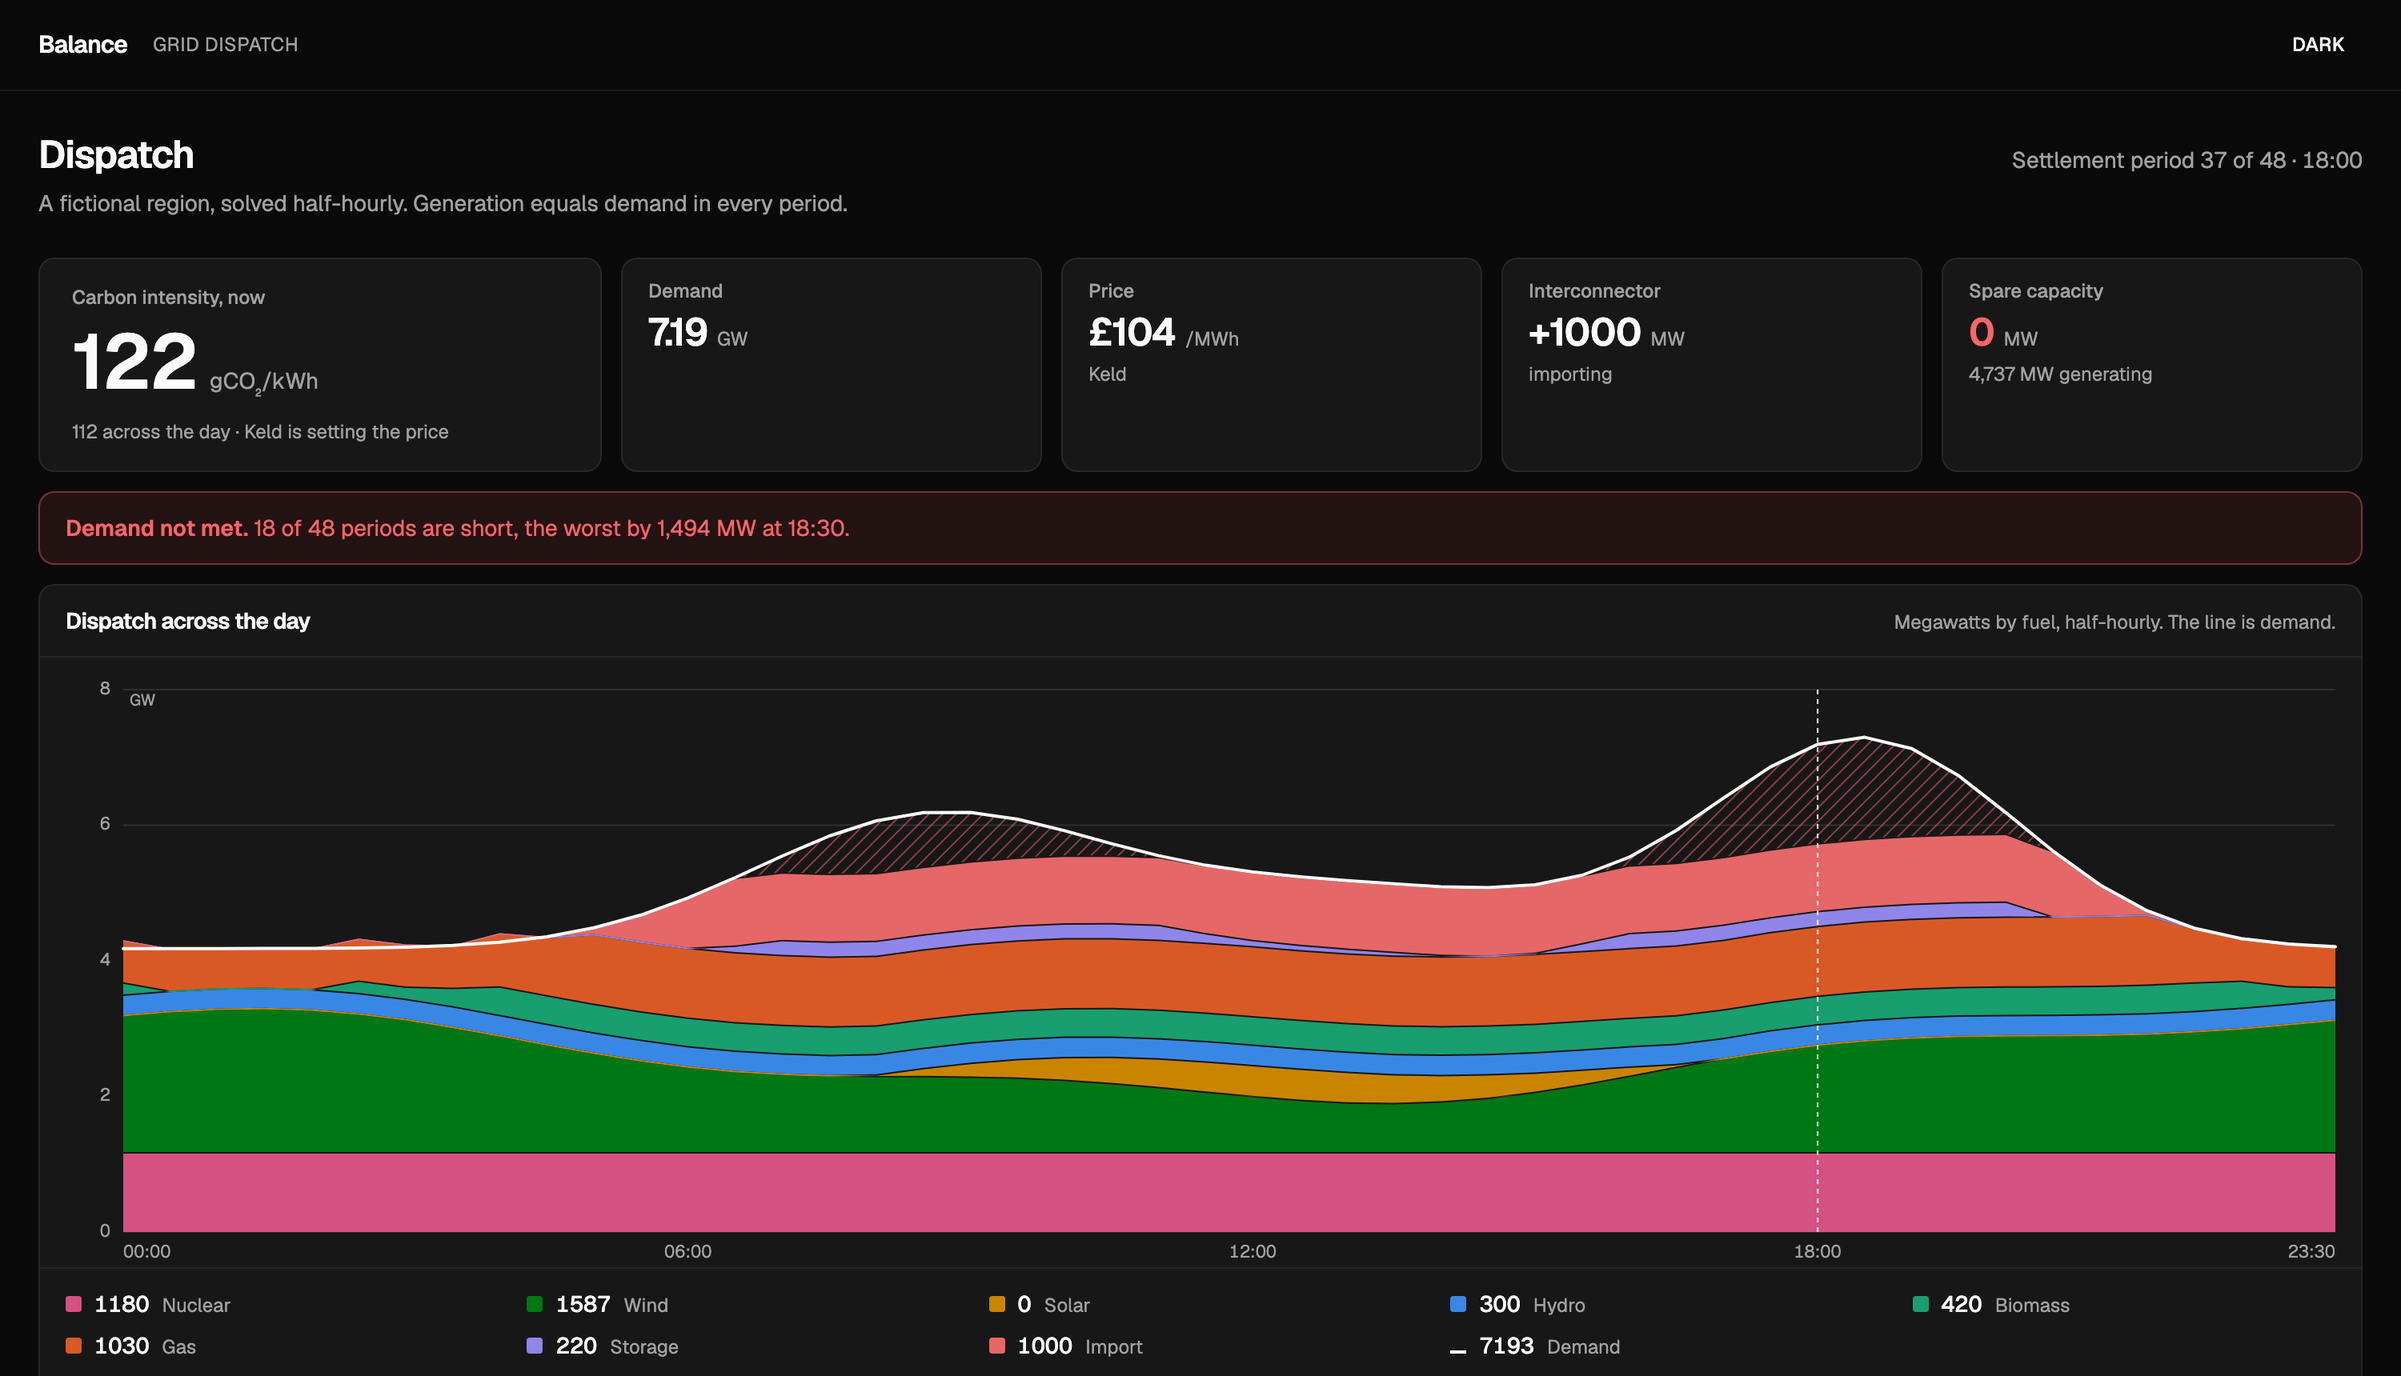
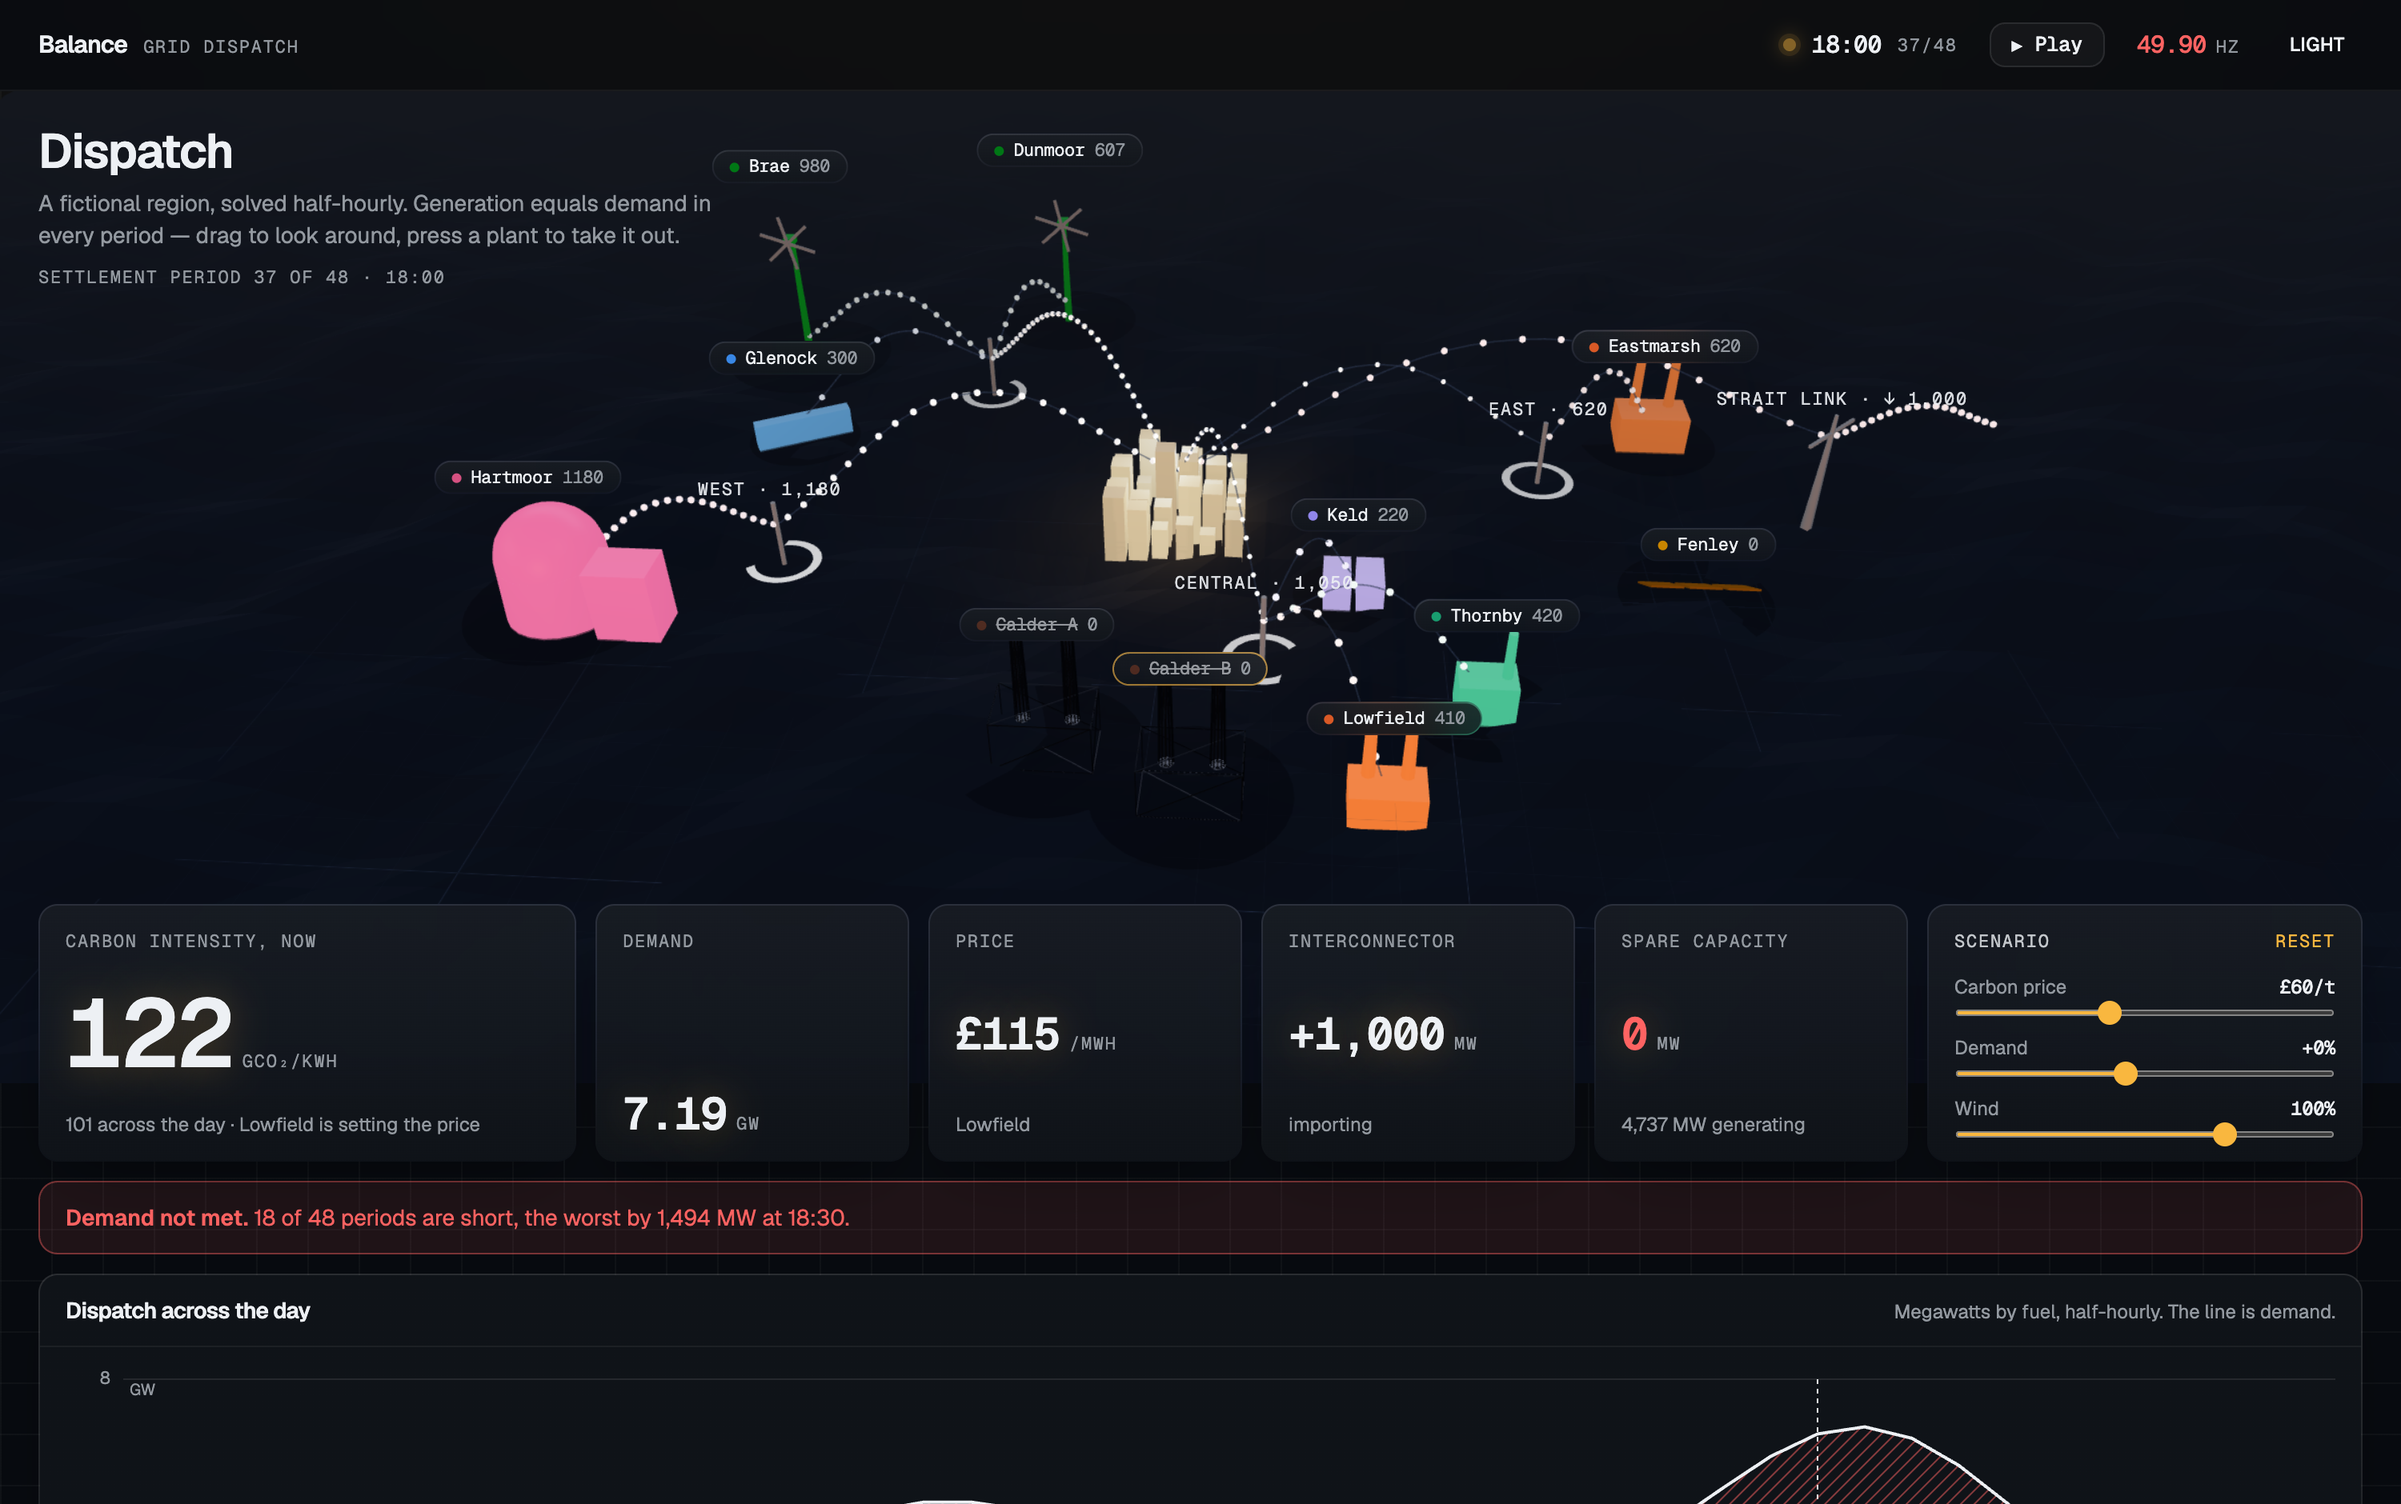
docs: the README and screenshots for the control room

diff --git a/README.md b/README.md
@@ -1,24 +1,24 @@
 # Balance
 
-A grid control room for a region that does not exist, solved half-hourly, where every number on the screen is the output of one model.
+A control room for a region that does not exist, solved half-hourly, where every number on the screen — and every particle moving across the map — is the output of one model.
 
-Forty-eight settlement periods of economic dispatch across eleven generating units, four nodes and an interconnector. Take a station offline and the whole day re-solves: the merit order shifts, a dearer unit is called, the price moves, the carbon intensity moves with it, and if the system can no longer meet demand it says so.
+Eleven generating units, four nodes, an interconnector and a city, dispatched across forty-eight settlement periods. Press **Play** and the day runs: the sun crosses the region, the solar farm wakes at nine, the city lights come up at dusk, and the instruments roll with the clock. Press a plant to take it out and the whole day re-solves — a dearer unit is called, the price moves, the carbon intensity moves with it, the particles feeding the city from the east thicken, and if the system can no longer meet demand the frequency droops and it says so.
 
 **Live:** <https://balance-dispatch.pages.dev>
 
-![The dashboard at the evening peak: carbon intensity, the day stacked by fuel, and the demand line over the top](docs/dashboard.png)
+![The control room at the evening peak: the region in three dimensions, power moving along the lines to the city, the instruments laid over its foot](docs/dashboard.png)
 
 ---
 
 ## The one rule
 
-Nothing is typed into a component. Every figure — the tiles, the stacked day, the supply curve, the diagram, the table — is derived from [`src/lib/grid/`](src/lib/grid), and the arithmetic has one invariant:
+Nothing is typed into a component. Every figure — the tiles, the masthead clock and frequency, the stacked day, the supply curve, the diagram, the table, and the width, count and speed of every particle in the scene — is derived from [`src/lib/grid/`](src/lib/grid), and the arithmetic has one invariant:
 
 ```
 generation + imports + unserved === demand + exports
 ```
 
-to within 0.1 MW, in all forty-eight periods, and still true with the two largest units out. That is the first test in [`dispatch.test.ts`](src/lib/grid/dispatch.test.ts), and it is the reason the rest of the dashboard can be trusted to agree with itself.
+to within 0.1 MW, in all forty-eight periods, under every lever, and still true with the two largest units out. That is the first test in [`dispatch.test.ts`](src/lib/grid/dispatch.test.ts), and it is the reason the rest of the room can be trusted to agree with itself.
 
 ## What the model actually does
 
@@ -31,35 +31,45 @@ Not a stacked chart with plausible numbers under it. A merit-order dispatch with
 
 The last of those arrived as a failing test. The test asserted that the price equals the cost of the dearest running plant, which is the intuition, and the model disagreed — biomass at £79 was on the system while the price was £71. The model was right and the test was the defect, which is the kind of result that only shows up when the model is real enough to argue with.
 
-Three more defects the tests caught, each of which rendered as a plausible-looking chart:
+### The levers
 
-- `rampRate: 0` meant "does not follow load" in the data and was read as "can never start" by the clamp, so 1,180 MW of nuclear never generated in any period.
-- The interconnector was appended to the merit order after the sort, so the battery ran at £104 while the neighbour was offering £96.
-- The commitment loop broke as soon as demand was met, leaving a committed unit instructed to zero — a 420 MW step on a machine that can move 360 MW in a period.
+Three inputs to the same solver, each one a question a visitor might actually ask of a grid:
 
-## Reading it
+- **Carbon price**, £0–150 per tonne, charged on every unit in proportion to what it emits — gas at 352 g/kWh gains £17.60 per £50, nuclear and the renewables gain nothing — so the merit order re-sorts itself and the staircase slides into its new order on screen.
+- **Demand**, −20% to +25%: a quiet Sunday or a heatwave, scaled before dispatch, never after.
+- **Wind**, 20% to 130%: a still day or a front coming through.
+
+![Two gas stations out and a £60 carbon price on: the plants struck through and dark, the battery lit, the link flat out, the frequency drooping, the shortfall declared](docs/shortfall.png)
+
+The levers found a defect the baseline could not. With the link importing flat out and a thermal unit committed at its minimum stable output overshooting demand, the surplus branch wrote the export straight over the import — 1,000 MW vanished from the books. The baseline never reaches that state: only the battery sits behind the import in its merit order, and a battery has no minimum stable output. A £150 carbon price put gas behind the import, and the balance test failed in the first period. The link now gives back import before it exports, which is also what a control room does.
+
+## The room
+
+Dark by default, because the room it is modelled on is dark: a wall of instruments read from across a desk, where the surface recedes and the figures and the live marks carry the light. Every surface is biased a few steps toward blue so the fuel colours sit on something with a temperature; every figure is set in a mono instrument face so the digits hold still as the clock runs; one amber means *live* — the clock, the playhead, the ring on whatever has focus — and is used for nothing else. The light theme is designed rather than inverted.
+
+![The light theme: the same room on cool paper](docs/light.png)
+
+**The region** is a [React Three Fiber](src/features/scene/RegionScene.tsx) scene that fetches nothing — three light panels baked once, a terrain of three sines, colours read from the page's own stylesheet so the plants are exactly the hues the charts use. Plants stand where they stand, sized by capacity and lit by their output. Power moves as particles: each line carries a count of them proportional to its megawatts, travelling at a speed set by how hard the plant behind them is working, so a nuclear station flat out and a battery flat out move at the same speed and are nothing like the same stream. Drag to orbit; a viewport-aware camera pulls back and widens the lens on a phone; where there is no WebGL the single-line diagram stands in.
+
+**The clock** runs the day in 720 ms half-hours. Figures roll rather than jump, the dispatch bands slide to their new shape, the playhead glides, and the masthead carries the time, a live lamp and the system frequency — 50.00 Hz on a balanced system, derived from the solver's unserved demand and falling when it is short.
+
+![The day, stacked by fuel, with the demand line over the top and the playhead at 18:00](docs/day.png)
 
 ![The system as a single-line diagram: every unit on its own row, feeding its node, feeding one busbar](docs/schematic.png)
 
-The diagram was drawn as a map first, with units at invented coordinates and lines radiating to their nodes. It looked like a grid and could not be read: NORTH printed through Glenock, CENTRAL through the demand figure the whole thing is built around, and the two left-hand units ran off the canvas. Nothing about a plant's position on an imaginary coastline is information. A row per unit is, and it cannot collide with itself.
-
-Two channels for two questions: **line width is megawatts** — how much — and **dash speed is the fraction of what that unit could be giving** — how hard it is working. A nuclear station flat out and a battery flat out travel at the same speed and are nothing like the same width. Motion is off entirely under `prefers-reduced-motion`, where the width and the printed figure carry it alone.
-
-The fuel palette is checked rather than chosen: eight categorical hues validated for deuteranopia, protanopia and tritanopia separation, normal-vision separation and contrast against each surface, with a separate set of steps for the dark theme rather than an automatic flip. Three of the eight sit under 3:1 on the light surface, which is why every series also has a labelled readout and a table, and identity is never carried by colour alone.
-
-![The same day with the two largest gas stations out: the shortfall drawn as a hatched band between what the system produced and what was asked of it](docs/shortfall.png)
-
-When the system cannot meet demand, the gap between the stack and the demand line is hatched. Until that band was drawn, a failing system rendered as an absence — the one condition a control room is watching for, shown as nothing.
+The fuel palette is checked rather than chosen: eight categorical hues validated for deuteranopia, protanopia and tritanopia separation, normal-vision separation and contrast against each theme's card surface, with a separate set of steps for the dark theme. Four hues sit under 3:1 on their surface, which is why every series also has a labelled readout and a table, and identity is never carried by colour alone.
 
 ## The checks
 
-Eight Vitest tests on the model. Twenty-six Playwright checks in [`e2e/`](e2e), run against the production bundle on a desktop and a Pixel 7.
+Eleven Vitest tests on the model. Thirty-three Playwright checks in [`e2e/`](e2e), run against the production bundle on a desktop and a Pixel 7.
 
 The load-bearing one is [`figures.spec.ts`](e2e/figures.spec.ts). The rule above is that no number is typed into a component, and a unit test cannot see that — it can only check the solver, and the solver was never what was at risk. So the browser re-solves the day from the view's own inputs and compares the result against the text actually painted, in three states: at rest, after the period changes, and with two units offline.
 
 [`layout.spec.ts`](e2e/layout.spec.ts) measures the painted size of every piece of text inside every SVG, at four viewport widths, and fails below 9px. It exists because the dispatch chart set its axis labels in viewBox units: 11px in the source, four pixels on a phone. That is not small type, it is no type, and it passed every other check there was.
 
-**Neither check was trusted until the bug it was written for had been put back.** Typing a fixed `£96` into the price tile is invisible at 18:00, where £96 happens to be the right answer, and fails the moment the period moves or a unit trips. Putting the merit curve back on a fixed canvas fails at 390px and nowhere else — which is exactly where that bug bites.
+[`levers.spec.ts`](e2e/levers.spec.ts) presses Play and watches the clock move, prices carbon and watches the system get dearer and no dirtier, stills the wind and watches the link take the strain.
+
+**Neither of the first two was trusted until the bug it was written for had been put back.** Typing a fixed `£96` into the price tile is invisible at 18:00, where £96 happens to be the right answer, and fails the moment the period moves or a unit trips. Putting the merit curve back on a fixed canvas fails at 390px and nowhere else — which is exactly where that bug bites.
 
 ## Running it
 
@@ -80,7 +90,7 @@ npm run deploy       # builds and ships dist/ to Cloudflare Pages
 
 ## Stack
 
-Vite 8 · React 19.3 with the React Compiler · TypeScript 6 · Tailwind CSS v4 · shadcn/ui on Base UI · React Router 8 · Vitest 5 · Playwright · Cloudflare Pages.
+Vite 8 · React 19.3 with the React Compiler · TypeScript 6 · Tailwind CSS v4 · shadcn/ui on Base UI · React Router 8 · three 0.186 / React Three Fiber 9.8 / drei · Motion 14 · Vitest 5 · Playwright · Cloudflare Pages.
 
 No charting library: every mark is an SVG path built from the solved periods, so the geometry and the figures cannot come from different places.
 
